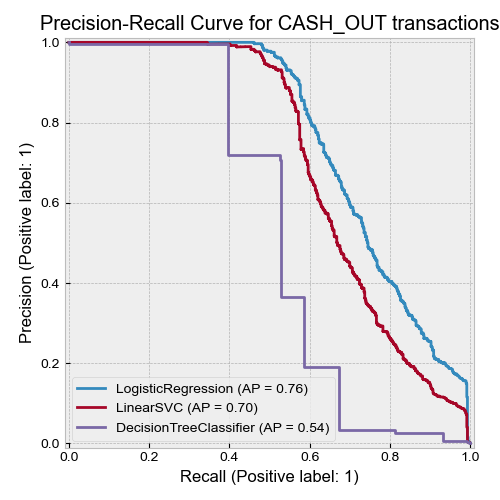
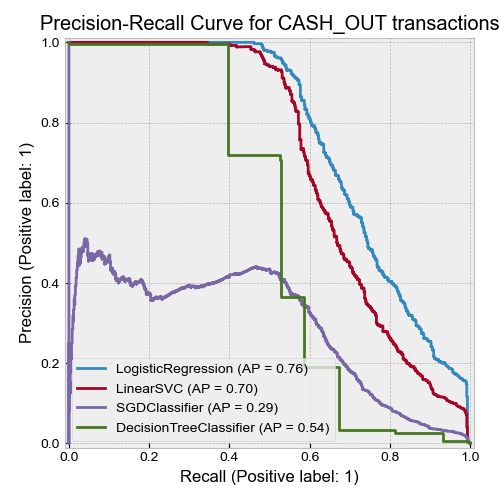
add: svc + rbf kernel approximation to evaluation between models

Changed region(s): [[0.12, 0.09, 0.96, 0.9], [0.15, 0.06, 0.45, 0.09]]

diff --git a/experimentation/reproduce_oza_2018/src/evaluate_between_ideal_model_performance.py b/experimentation/reproduce_oza_2018/src/evaluate_between_ideal_model_performance.py
@@ -8,6 +8,7 @@ from sklearn.metrics import PrecisionRecallDisplay
 from absl import app, flags, logging
 
 from model_config import FEATURE_NAMES, TARGET_NAME, MODEL_FUNCTIONS
+import utils
 
 mpl.rcParams["font.family"] = "Arial"
 
@@ -20,12 +21,14 @@ FLAG = flags.FLAGS
 
 ROOT_DIR = Path(__file__).parents[1]
 DATASET_DIR = ROOT_DIR / "datasets"
+MODEL_DIR = ROOT_DIR / "output" / "model"
 RESULT_DIR = ROOT_DIR / "output" / "result"
 RESULT_FIG_DIR = ROOT_DIR / "output" / "figures" / "result_model_comparison"
 RESULT_FIG_DIR.mkdir(exist_ok=True, parents=True)
 
 
 def main(_):
+    logging.info("BEGIN: Reading ideal class weight data...")
     icw_data = pd.read_csv(RESULT_DIR / "result_ideal_class_weight.csv")
 
     transaction_types = {
@@ -33,6 +36,9 @@ def main(_):
         "TRANSFER": {},
     }
     for transaction_type in transaction_types:
+        logging.info(
+            f"RUN: Loading {transaction_type} train, val, test data into memory..."
+        )
         transaction_types[transaction_type]["train"] = pd.read_csv(
             DATASET_DIR / "03_features" / f"{transaction_type}_train.csv", index_col=0
         )
@@ -57,43 +63,74 @@ def main(_):
         y_test.values.ravel(),
     )
 
+    def _get_model_with_type_dir(model_name: str, transaction_type: str) -> Path:
+        model_with_type_dir = MODEL_DIR / model_name / transaction_type
+        model_with_type_dir.mkdir(exist_ok=True, parents=True)
+        return model_with_type_dir
+
     fitted_models = {model_name: None for model_name in MODEL_FUNCTIONS}
     for model_name, model_fn in MODEL_FUNCTIONS.items():
+        logging.info(f"BUILD: Building model '{model_name}'...")
         model_icw_data = icw_data.query(
             f"model_name == '{model_name}' and "
             f"transaction_type == '{FLAG.transaction_type}'"
         )
         if model_icw_data.empty:
             logging.warning(
-                f"SKIPPING: No ideal class weight found for model_name='{model_name}'."
+                f"SKIP: No ideal class weight found for model_name='{model_name}'."
             )
             continue
         icw = model_icw_data.iloc[0].class_weight
-        model = model_fn(cw={0: 1, 1: icw})
-        model.fit(X_train, y_train)  # model was always trained on training set.
+
+        model_with_type_path = (
+            _get_model_with_type_dir(model_name, FLAG.transaction_type)
+            / f"{model_name}_{FLAG.transaction_type}_CW{str(icw).zfill(3)}.pkl"
+        )
+        if model_with_type_path.exists():
+            logging.info(
+                f"  BUILD: Model already exists. Loading model '{model_name}' from disk "
+                f"@ {model_with_type_path.relative_to(ROOT_DIR)}..."
+            )
+            model = utils.load_model(model_with_type_path)
+        else:
+            model = model_fn(cw={0: 1, 1: icw})
+            model.fit(X_train, y_train)  # model was always trained on training set.
+            utils.save_model(model, model_with_type_path)
         fitted_models[model_name] = model
 
-        # SAVE MODEL PARAMS HERE!
+    # def viz():
+    logging.info("RUN: Visualising PRC for model with ideal class weights...")
+    fig, ax = plt.subplots(figsize=(5, 5))
 
-    def viz():
-        fig, ax = plt.subplots(figsize=(5, 5))
+    for model_name, fitted_model in fitted_models.items():
+        if fitted_model is None:
+            logging.warning(
+                f"SKIP: skip visualising model_name='{model_name}' as no fitted "
+                "model found."
+            )
+            continue
+        if model_name == "svc_rbf" and FLAG.transaction_type == "CASH_OUT":
+            model_with_type_dir = _get_model_with_type_dir(
+                model_name, FLAG.transaction_type
+            )
+            scaler = utils.load_model(model_with_type_dir / "standard_scaler.pkl")
+            rbf_sampler = utils.load_model(model_with_type_dir / "rbf_sampler.pkl")
+            X_val_transformed = rbf_sampler.transform(scaler.transform(X_val))  # noqa
 
-        for model_name, fitted_model in fitted_models.items():
-            if fitted_model is None:
-                logging.warning(
-                    f"SKIPPING: No fitted model found for model_name='{model_name}'."
-                )
-                continue
+            PrecisionRecallDisplay.from_estimator(
+                fitted_model, X_val_transformed, y_val, pos_label=1, ax=ax
+            )
+        else:
             PrecisionRecallDisplay.from_estimator(
                 fitted_model, X_val, y_val, pos_label=1, ax=ax
             )
 
-        ax.set_title(f"Precision-Recall Curve for {FLAG.transaction_type} transactions")
+    ax.set_title(f"Precision-Recall Curve for {FLAG.transaction_type} transactions")
 
-        fig.tight_layout()
-        fig.savefig(RESULT_FIG_DIR / f"model_comparison_{FLAG.transaction_type}.png")
+    fig.tight_layout()
+    fig.savefig(RESULT_FIG_DIR / f"model_comparison_{FLAG.transaction_type}.png")
 
-    viz()
+    # viz()
 
 
 if __name__ == "__main__":
